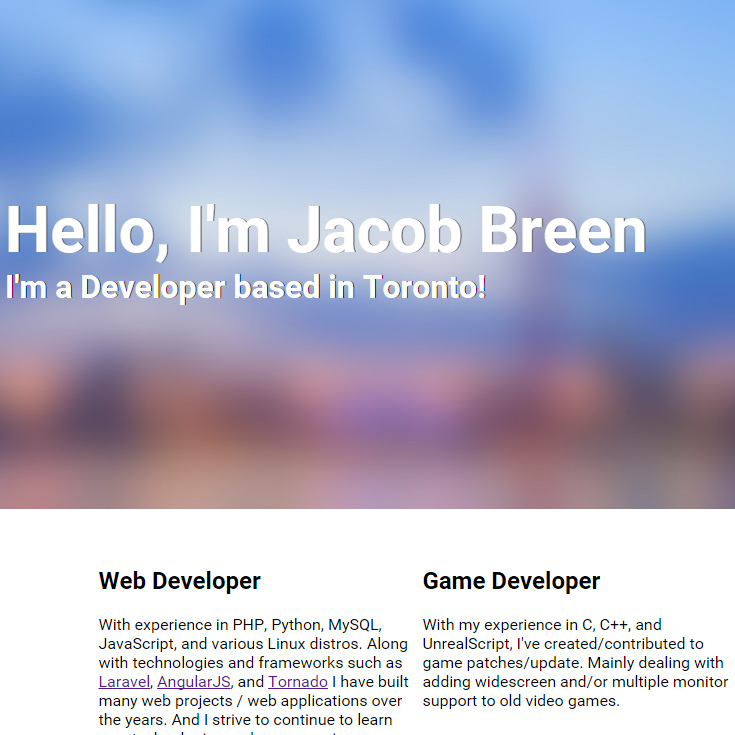
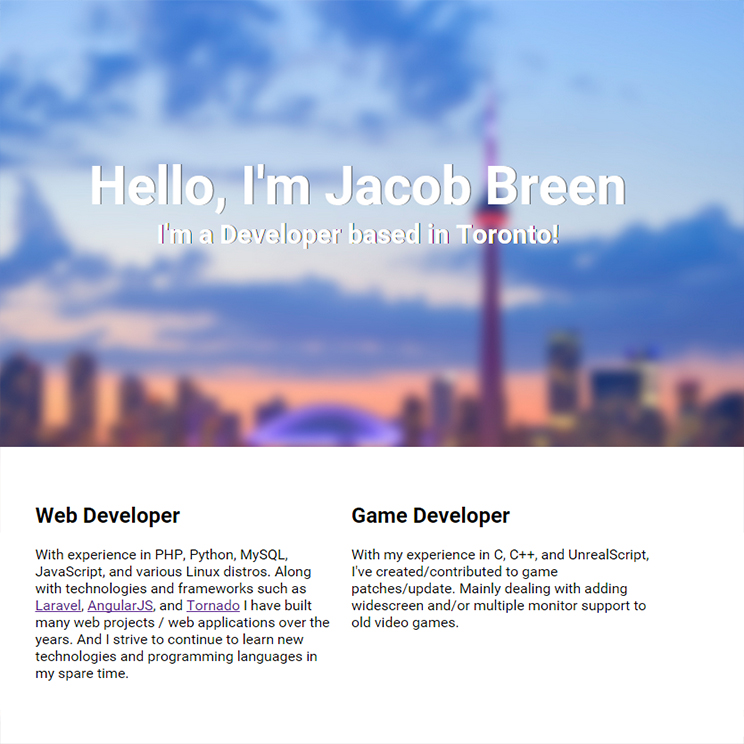
Additional work on the site
Added warning for users viewing the site with IE 8 or lower.
Updated JacobBreen Preview to match updated stock image.
Modified footer links on Home, Contact now directs to email, instead of
planned separate contact page.
Removed unused ContactController (including route)
Styling changes to Home.

diff --git a/resources/styles/less/app.less b/resources/styles/less/app.less
@@ -37,9 +37,16 @@ body {
 /*
 
 */
+.error {
+  color: #ff0009;
+  height: 128px;
+  text-align: center;
+  padding-top: 1em;
+  z-index:10;
+}
+
 .view-container {
   width: 100%;
-
 }
 
 .btn {
@@ -63,10 +70,6 @@ body {
 /*
  HOME
 */
-.nav {
-  width:100%;
-  background-color:beige;
-}
 .header {
     background-image: url('/assets/images/header.jpg');
     background-repeat: no-repeat;
@@ -83,7 +86,9 @@ body {
       font-weight: 700;
       font-size: 3.75em;
       text-shadow: 1px 0px #000000;
+      text-align: center;
       margin: 1em;
+
     }
     span {
       display:block;
@@ -109,9 +114,15 @@ body {
 }
 
 .column-half {
-  margin:5px;
-  width:48%;
+  margin:10px;
+  width:45%;
   float :left;
+}
+
+@media screen and (max-width: 952px) {
+  .column-half {
+    width:100%;
+  }
 }
 
 .column-picture {
@@ -120,18 +131,6 @@ body {
   min-height: 200px;
   float:left;
   background-size:cover;
-}
-
-@media screen and (max-width: 720px) {
-  .column-half {
-    width:100%;
-  }
-  /*
-  .column-picture {
-    width:200px;
-    height:200px;
-  }
-  */
 }
 
 .column-info {

diff --git a/public/index.html b/public/index.html
@@ -10,10 +10,16 @@
   <link rel="stylesheet" href="assets/css/app.css">
 </head>
 <body>
+    <!--[if lte IE 8]>
+    <p class="error">
+        You are using an unsupported browser. Please consider <a href="http://browsehappy.com/">upgrading.</a><br/>
+        You can also view my old website <a href="http://old.jacobbreen.com">here</a>
+    </p>
+    <![endif]-->
 
-  <div ng-view class="view-container"></div>
+    <div ng-view class="view-container"></div>
 
-  <script src="assets/js/vendor.js"></script>
-  <script src="assets/js/app.js"></script>
+    <script src="assets/js/vendor.js"></script>
+    <script src="assets/js/app.js"></script>
 </body>
 </html>

diff --git a/public/assets/partials/home.html b/public/assets/partials/home.html
@@ -37,6 +37,6 @@
         <li><a href="https://ca.linkedin.com/in/jakebreen4">LinkedIn</a></li>
         <li><a href="http://www.jacobbreen.com/resume.pdf">Resume</a></li>
         <li><a href="https://github.com/haekb">GitHub</a></li>
-        <li><a href="http://www.jacobbreen.com/#/contact">Contact</a></li>
+        <li><a target="_top" href="mailto:{{email}}">Contact</a></li>
     </ul>
 </div>

diff --git a/resources/scripts/routes.js b/resources/scripts/routes.js
@@ -4,12 +4,7 @@ function RouteController($routeProvider) {
         templateUrl: 'assets/partials/home.html',
         controller: 'HomeController'
     });
-
-    $routeProvider.when('/contact', {
-        templateUrl: 'assets/partials/contact.html',
-        controller: 'ContactController'
-    });
-
+    
     $routeProvider.otherwise({redirectTo: '/home'});
 };
 

diff --git a/resources/scripts/controllers/HomeController.js b/resources/scripts/controllers/HomeController.js
@@ -16,6 +16,8 @@ function HomeController($scope) {
         },
     ];
 
+    $scope.email = "general@jacobbreen.com";
+
 
 };
 
